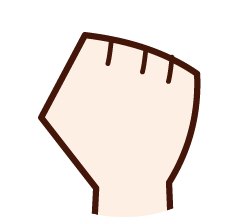
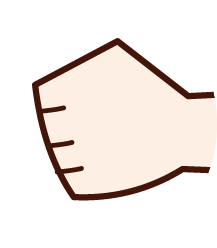
gamble

Changed region(s): [[0.3318, 0.3318, 1.0, 1.0], [0.1382, 0.1382, 0.7742, 0.7742]]

diff --git a/src/component/Home.js b/src/component/Home.js
@@ -24,7 +24,8 @@ export default class Home extends React.Component{
         sleepIn: -1,
         janKen: false,
         miniGames: false,
-        money: null
+        money: null,
+        gamble: false
     }
 
     // fetching list of all species.
@@ -37,7 +38,7 @@ export default class Home extends React.Component{
         }})
         .then(res => res.json())
         .then(data => {
-            debugger
+            // debugger
             this.setState({ buysLeft: data.user.buys_left, money: data.user.money})
             this.props.refresh(data)
         })
@@ -147,16 +148,10 @@ export default class Home extends React.Component{
         this.setState({ tamaStore: true })
     }
 
-    updateBuysLeft = () => {
+    updateMoneyLeft = (amount) => {
 
-        let buysLeft = this.state.buysLeft - 1
-        // let userPetsLength
-
-        // await this.sleep(1000)
-        // pets ? userPetsLength = pets.length : userPetsLength = this.state.userPets.length
-
-        // userPetsLength === 0 ? buysLeft = 3 : buysLeft = 3 - userPetsLength
-
+        let money = this.state.money + amount
+        
         fetch(`http://localhost:3000/users/${this.props.user.id}`,{
             method: 'PATCH',
             headers: {
@@ -164,11 +159,11 @@ export default class Home extends React.Component{
                 'Accept' : 'application/json'
             },
             body: JSON.stringify({
-                buys_left: buysLeft
+                money
             })
         })
         .then(resp => resp.json())
-        .then(data => this.setState({ buysLeft: data.buys_left }))
+        .then(data => this.setState({ money: data.money }))
     }
 
     handleIconClick = (currentPet) => {
@@ -299,17 +294,22 @@ export default class Home extends React.Component{
 
 
     startMiniGame = (e) => {
-        // debugger
-        // alert('Start minigame')
-        let name = e.target.id
-        if (name === "miniGames"){
-            this.setState({[name]: true, tamaStore: false, ticTacToe: false, janKen: false})}
-        else { 
-            this.setState({[name]: true, tamaStore: false, miniGames: false})}
-        // this.setState({ janKen: true, tamaStore: false })
-        // this.setState({ ticTacToe: true, tamaStore: false })
-        // empty tamagotchi's screen
-        // populate with minigames
+   
+ 
+        if (e.id) {
+            this.setState({[e.id]: true, gamble:e.gamble, tamaStore: false, miniGames: false})
+        } else {
+            this.setState({miniGames: true, tamaStore: false, ticTacToe: false, janKen: false})
+        }
+        
+        // let name = e.target.id
+        // if (name === "miniGames"){
+        //     this.setState({[name]: true, tamaStore: false, ticTacToe: false, janKen: false})}
+        // else { 
+        //     this.setState({[name]: true, tamaStore: false, miniGames: false})
+        // }
+          
+        
     }
 
     render(){
@@ -325,7 +325,7 @@ export default class Home extends React.Component{
                 />
 
 
-                <div id="greeting">{!!this.props.user ? `Hi ${this.props.user.name}!     You have ${this.state.buysLeft} slots left. You have ${this.state.money}`: null}</div>
+                <div id="greeting">{!!this.props.user ? `Hi ${this.props.user.name}!     You have ${this.state.buysLeft} slots left. You have ${this.state.money} coins left`: null}</div>
                 <Tamagotchi
                     allSpecies={this.state.allSpecies}
                     currentPet={this.state.currentPet}
@@ -343,6 +343,8 @@ export default class Home extends React.Component{
                     startMiniGame={this.startMiniGame}
                     janKen={this.state.janKen}
                     miniGames={this.state.miniGames}
+                    updateMoneyLeft={this.updateMoneyLeft}
+                    gamble={this.state.gamble}
                 />
 
                 { this.state.modalForm ?

diff --git a/src/component/Minigames.js b/src/component/Minigames.js
@@ -1,14 +1,75 @@
-import React from 'react';
+// import React from 'react';
+import React, { Component } from 'react';
 import Button from 'react-bootstrap/Button'
+import Form from 'react-bootstrap/Form'
 
-const Minigames = ({startMiniGame}) => {
+// const Minigames = ({startMiniGame}) => {
+//     return (
+//         <div>
+//             <h1>Choose a minigame to play</h1>
+//              <Button className="minigames_btn" variant="outline-warning" onClick={startMiniGame} id="ticTacToe">Tic Tac Toe</Button>
+//              <Button className="minigames_btn" variant="outline-warning" onClick={startMiniGame} id="janKen">Janken</Button>
+//              <br/><br/><br/>
+//              <h4>Gamble 100 coins for a chance to win twice as much?</h4>
+//              <div>
+//                 <Form>
+//                     <div key={`inline-checkbox`} className="mb-3">
+//                         <Form.Check inline label="Take my money!" type="checkbox" id={`inline-checkbox-1`} />
+//                         <Form.Check inline label="I'm broke" type="checkbox" id={`inline-checkbox-2`} />
+//                     </div>
+//                 </Form>
+//             </div>
+//         </div>
+//     );
+// }
+
+class Minigames extends Component {
+    
+    state = {
+        gamble : false
+    }
+
+    handleGamble = (e) => {
+        let {name, value} = e.target
+        this.setState({[name]:value})
+    }
+
+    handleClick = (e) => {
+        let info = {gamble:this.state.gamble, id: e.target.id}
+        this.props.startMiniGame(info)
+    }
+
+
+    render(){
+        
+
     return (
         <div>
             <h1>Choose a minigame to play</h1>
-             <Button className="minigames_btn" variant="outline-warning" onClick={startMiniGame} id="ticTacToe">Tic Tac Toe</Button>
-             <Button className="minigames_btn" variant="outline-warning" onClick={startMiniGame} id="janKen">Janken</Button>
+             <Button className="minigames_btn" variant="outline-warning" onClick={(e) => this.handleClick(e)} id="ticTacToe">Tic Tac Toe</Button>
+             <Button className="minigames_btn" variant="outline-warning" onClick={(e) => this.handleClick(e)} id="janKen">Janken</Button>
+             <br/><br/><br/>
+             <h4>Gamble 100 coins for a chance to win twice as much?</h4>
+             <div>
+            
+              
+             
+            <Form onChange={(e) => this.handleGamble(e)}>
+                <div key={`inline-radio`} className="mb-3">
+                    <h4>
+                        <Form.Check value={true} inline label="Take my money!" type="radio"  name="gamble"/>
+                        <Form.Check value={false} inline label="Nah, I'm broke" type="radio"  name="gamble"/>
+                    </h4>
+                </div>
+            </Form>
+
+
+
+            </div>
         </div>
     );
+
+    }
 }
 
 export default Minigames;

diff --git a/src/component/JankenBoard.js b/src/component/JankenBoard.js
@@ -2,6 +2,9 @@ import React, { Component } from 'react';
 import Scissors from '../images/scissors.png'
 import Paper from '../images/paper.png'
 import Rock from '../images/rock.png'
+import ScissorsCpu from '../images/scissors_left.png'
+import PaperCpu from '../images/paper_left.png'
+import RockCpu from '../images/rock_left.png'
 import Button from 'react-bootstrap/Button'
 
 // import Row from 'react-bootstrap/Row';
@@ -37,15 +40,15 @@ class JankenBoard extends Component {
         switch (rand){
             case 0: 
                 cpu = "Rock" 
-                cpuShow = Rock
+                cpuShow = RockCpu
                 break
             case 1:
                 cpu = "Paper"
-                cpuShow = Paper
+                cpuShow = PaperCpu
                 break
             case 2:
                 cpu = "Scissors"
-                cpuShow = Scissors
+                cpuShow = ScissorsCpu
                 break
             default:
                 break
@@ -76,12 +79,12 @@ class JankenBoard extends Component {
             } else if (userChoice === "Scissors"){
                 this.setState(prevState => {
                     return {cpuScore: prevState.cpuScore + 1, message: "You lost"}
-                })
+                }, ()=>{this.gameover()})
 
             } else if (userChoice === "Paper"){
                 this.setState(prevState => {
                     return {userScore: prevState.userScore + 1, message: "You won!", winsNeeded: prevState.winsNeeded - 1}
-                })
+                }, ()=>{this.gameover()})
             }
         }
         else if (cpu === "Paper" ){
@@ -119,8 +122,11 @@ class JankenBoard extends Component {
     gameover = () => {
         if (this.state.userScore === 3){
             setTimeout(this.handleGameover, 1000)
+            this.props.gamble ? this.props.updateMoneyLeft(200) : this.props.updateMoneyLeft(100)
         } else if (this.state.cpuScore === 3){
             setTimeout(this.handleGameover, 1000)
+            if (this.props.gamble === "true") {
+                this.props.updateMoneyLeft(-100)}
         }
     }
 
@@ -135,7 +141,8 @@ class JankenBoard extends Component {
             
             <div>
                 <h1>JanKen</h1>
-                <h3>{this.state.winner ? `You ${this.state.userScore === 3 ? "Won!" : "Lost!" }`: this.state.message}</h3>
+                <h3>{this.state.winner ? 
+                `You ${this.state.userScore === 3 ? `Won ${this.props.gamble ? "200" : "100"} coins!` : `${this.props.gamble ? "Lost!" : "Lost 100 coins!"}` }`: this.state.message}</h3>
                 
                 <div className="game">
                     <div className ="janken-square">

diff --git a/src/component/Tamagotchi.js b/src/component/Tamagotchi.js
@@ -54,7 +54,7 @@ export default class Tamagotchi extends React.Component{
                             <div className="tamagotchi_background">
                                 <img src={egg} alt='tamagotchi' id='tamagotchi_pic' />
                                 <div id='screen'>
-                                    <JankenGame user={this.props.user} startMiniGame={this.props.startMiniGame} />
+                                    <JankenGame user={this.props.user} startMiniGame={this.props.startMiniGame} updateMoneyLeft={this.props.updateMoneyLeft} gamble={this.props.gamble}/>
                                 </div>
                             </div>
                         </Row>

diff --git a/src/component/JankenGame.js b/src/component/JankenGame.js
@@ -2,10 +2,10 @@ import React from 'react'
 import JankenBoard from './JankenBoard'
 
 
-const JankenGame = ({user, startMiniGame}) => {
+const JankenGame = ({user, startMiniGame, updateMoneyLeft, gamble}) => {
    return (
         <div className="janken-game">
-           <JankenBoard user={user} startMiniGame={startMiniGame} />
+           <JankenBoard user={user} startMiniGame={startMiniGame} updateMoneyLeft={updateMoneyLeft} gamble={gamble} />
         </div>
       );
         

diff --git a/src/css/Tamagotchi.css b/src/css/Tamagotchi.css
@@ -124,8 +124,12 @@
 
 .janken-pics{
   width: 100%; 
-  max-width: 250px; 
+  max-width: 200px; 
   height: auto; 
 }
 
+input[type='radio'] {
+  transform: scale(1.5);
+  margin-left: 20px;
+}
 
